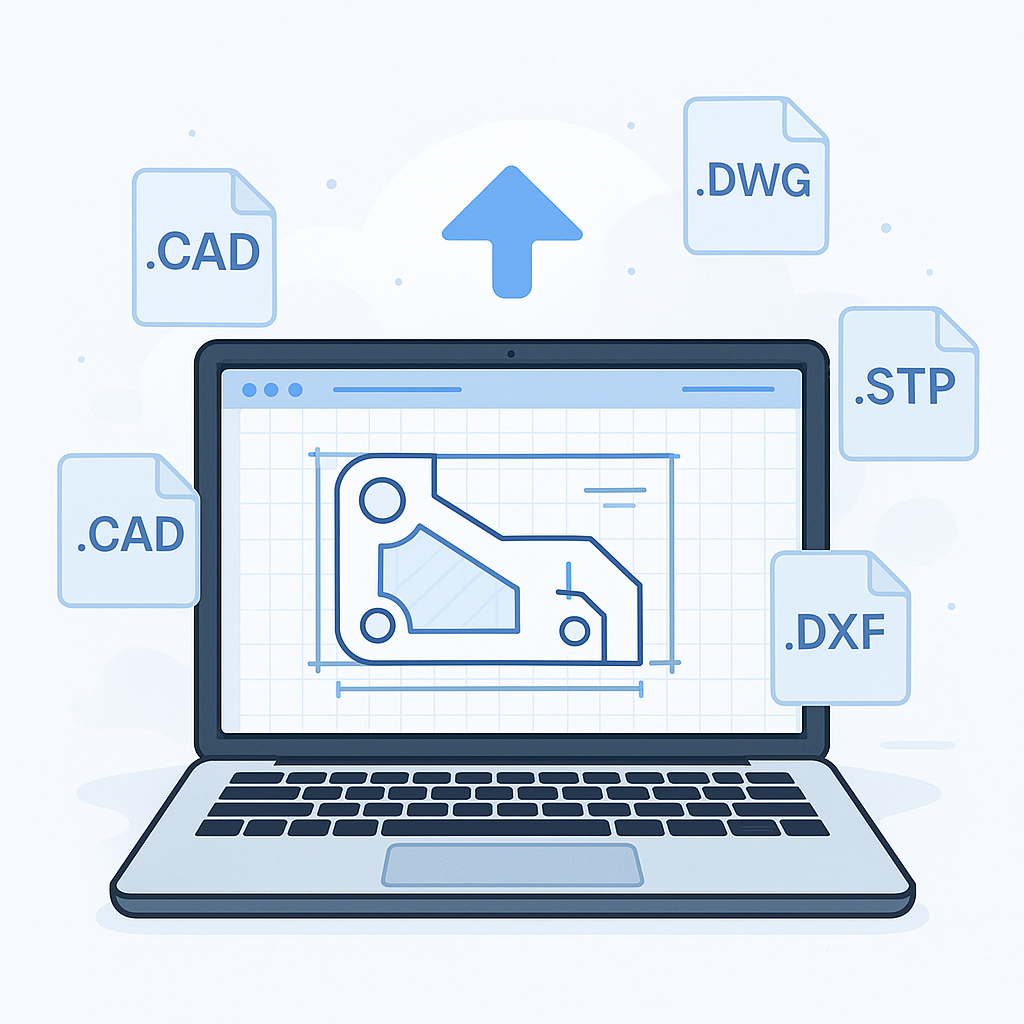
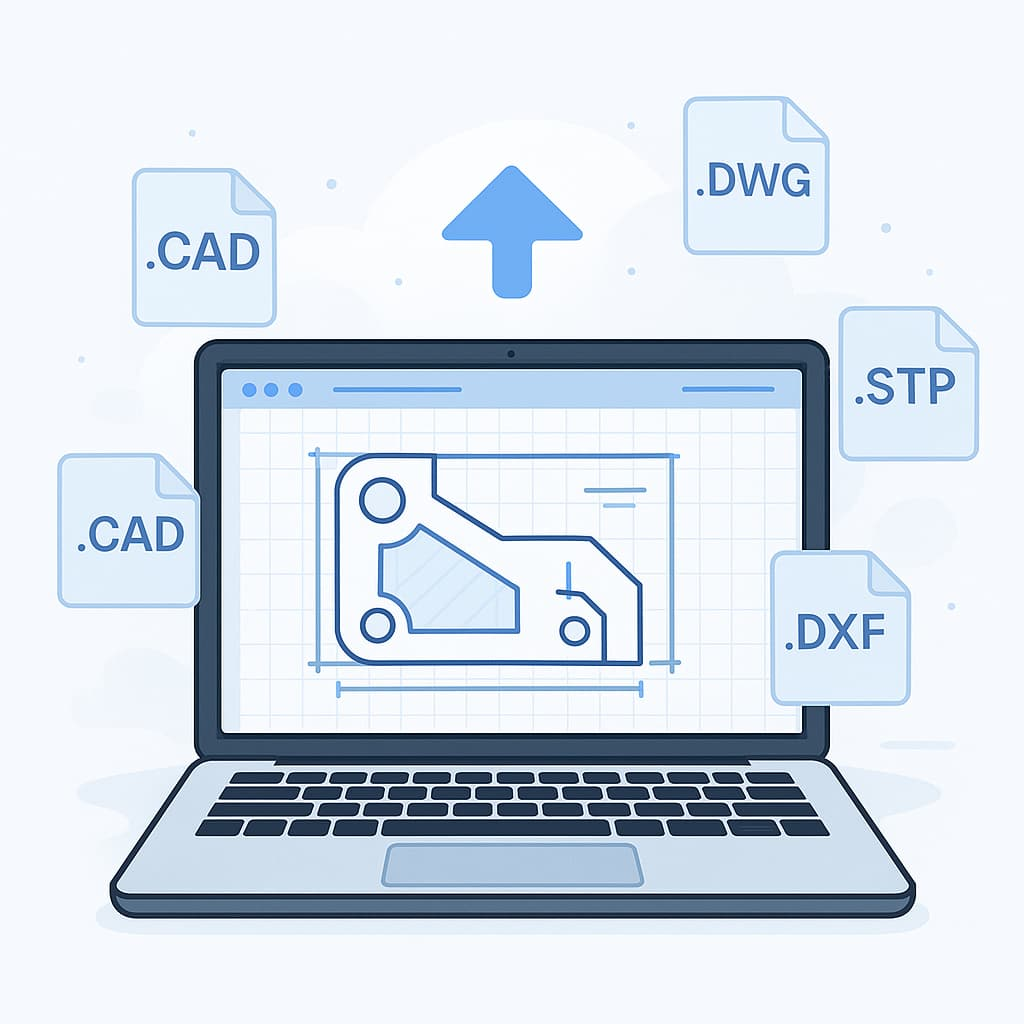
Implement route-based code splitting and stage image updates

diff --git a/index.html b/index.html
@@ -19,7 +19,7 @@
 
     <link rel="preconnect" href="https://fonts.googleapis.com">
     <link rel="preconnect" href="https://fonts.gstatic.com" crossorigin>
-    <link rel="preload" href="https://fonts.googleapis.com/css2?family=Inter:wght@400;500;600;700&display=swap" as="style" onload="this.onload=null;this.rel='stylesheet'" crossorigin="anonymous">
+    <link rel="preload" href="https://fonts.googleapis.com/css2?family=Inter:wght@400;500;600;700&display=swap" as="style" onload="this.onload=null;this.rel='stylesheet'">
     <noscript>
         <link href="https://fonts.googleapis.com/css2?family=Inter:wght@400;500;600;700&display=swap" rel="stylesheet">
     </noscript>
